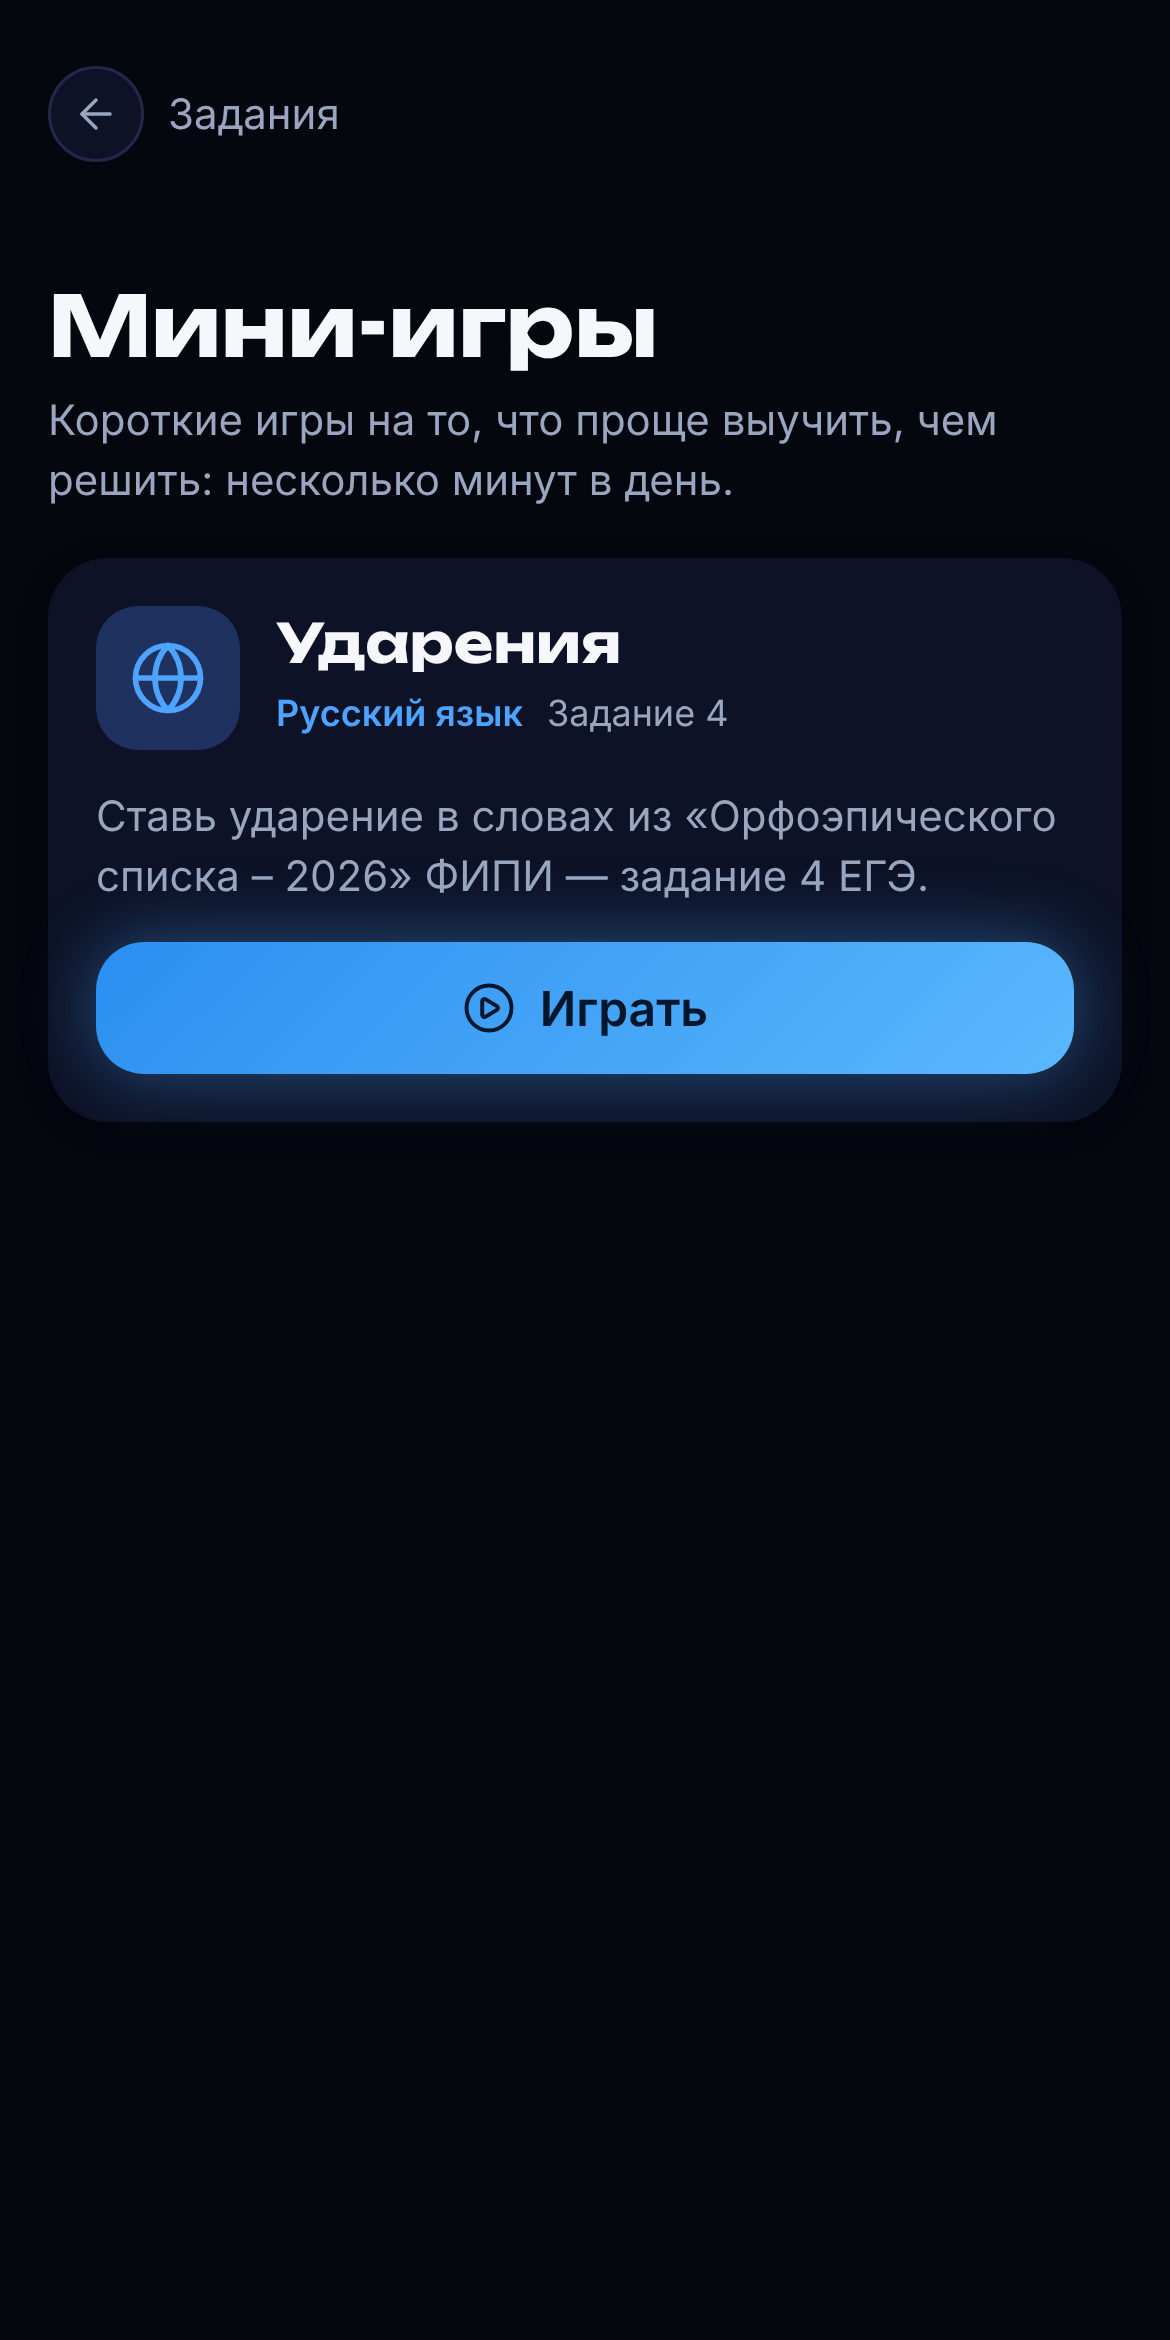
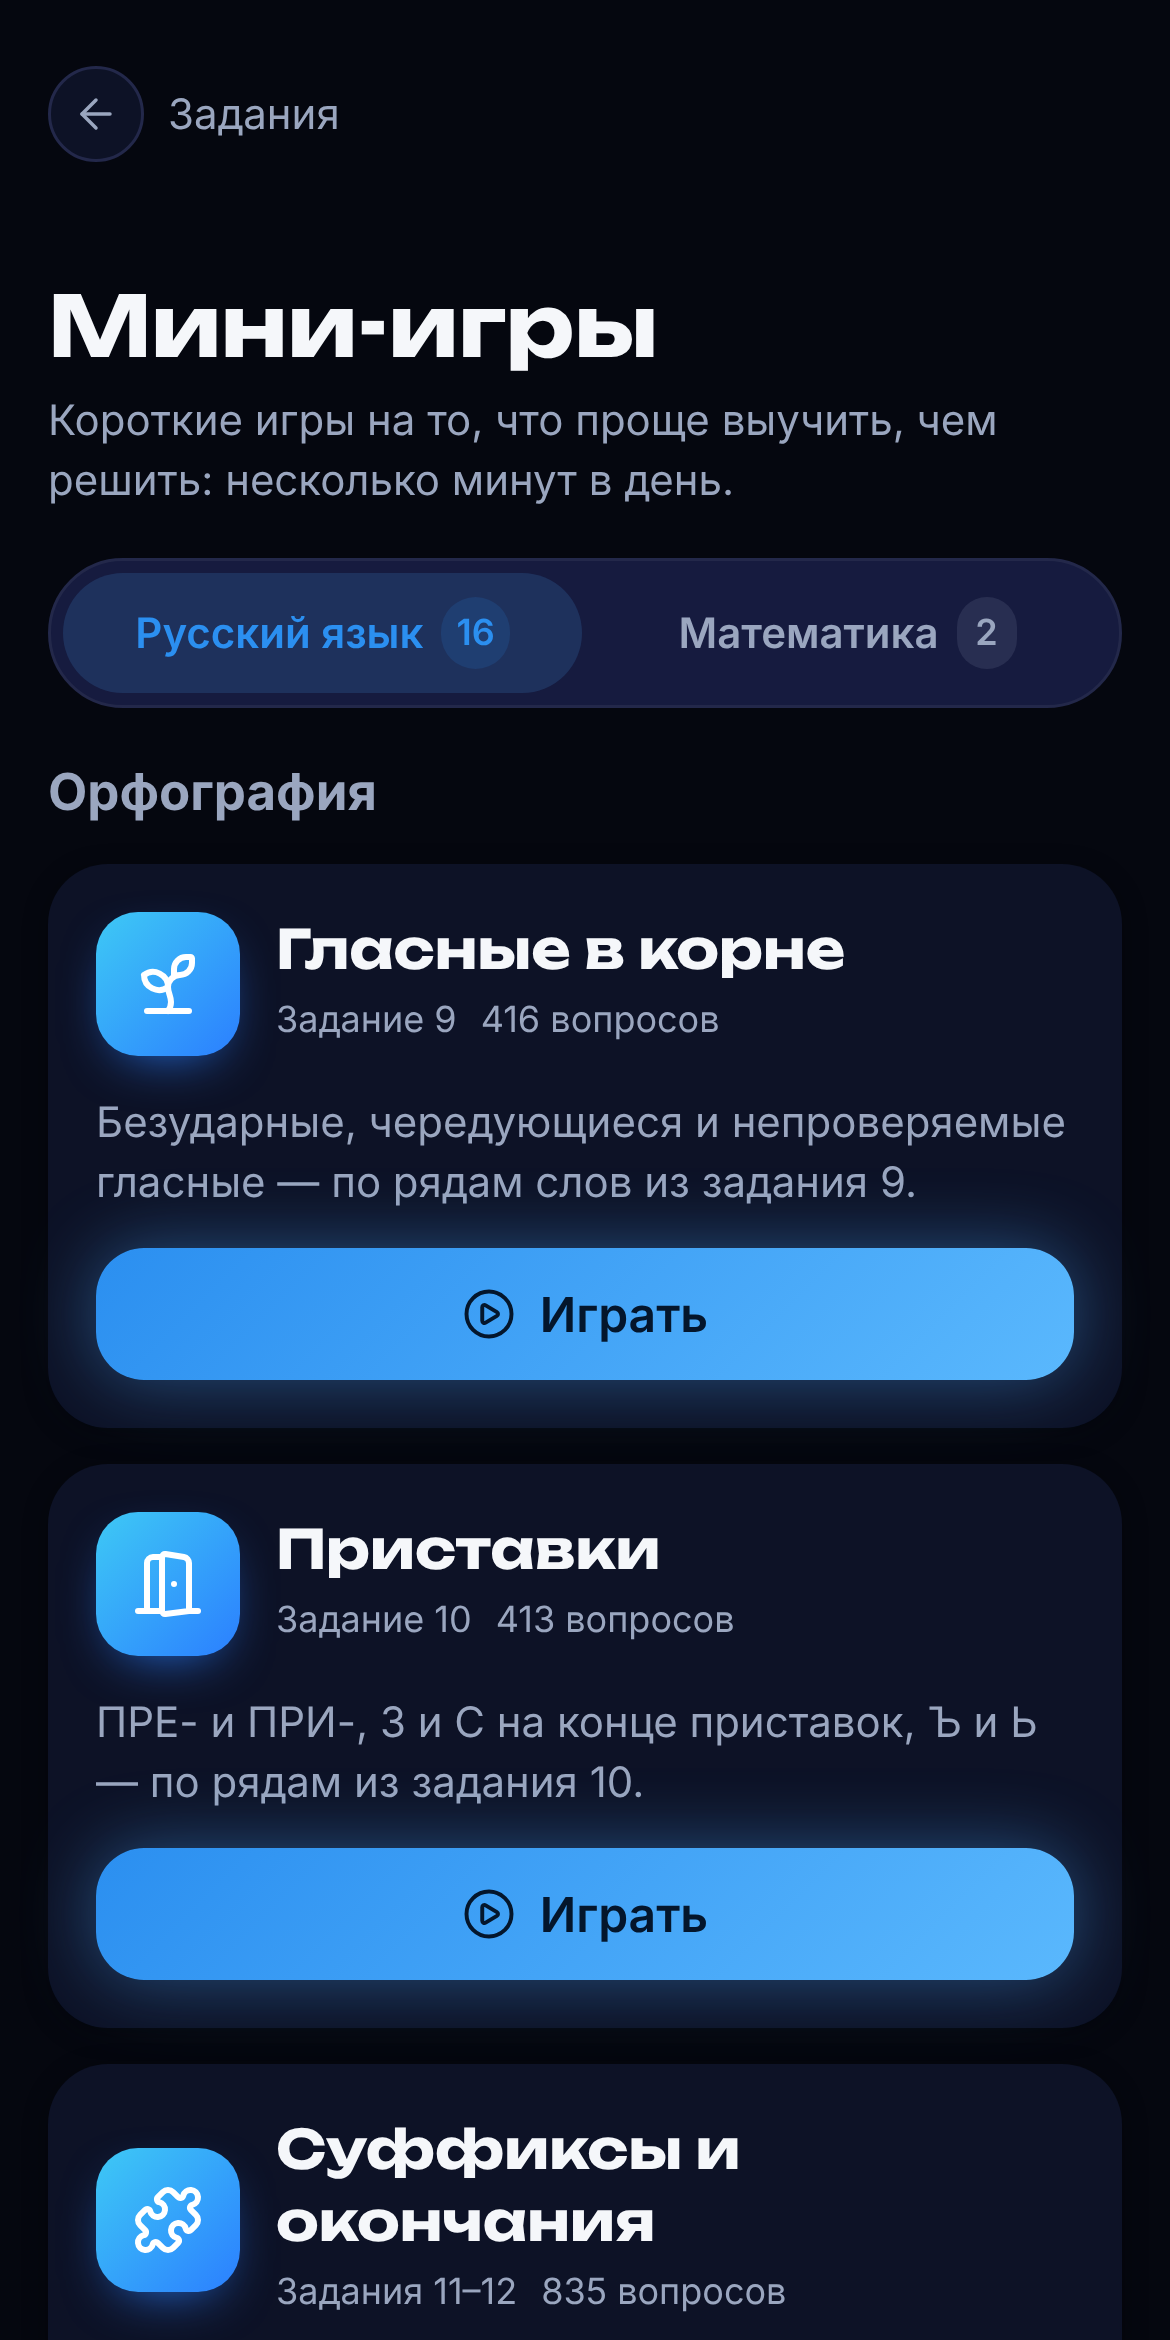
feat(content): mini-games screens (18 games) and app segment with a real feature in every video
Claude-Session: https://claude.ai/code/session_01D7d11vykKreb6D75gyVaUq

diff --git a/zybrilka-content/library/screens/SCREENS.md b/zybrilka-content/library/screens/SCREENS.md
@@ -8,7 +8,7 @@
 | home.png | Главная: «Готов к новой тренировке?», кнопка «Начать тренировку», плитки Место/Решено/Правильно, «Учебный центр» | весь верх: [40,200,1130,1000] |
 | home_scrolled.png | Главная ниже: «Популярные предметы» — Математика 678, Русский 2 386, Английский 0… | Математика+Русский: [40,840,1130,1340] |
 | training.png | «Тренировка»: выбор предмета, режимы По теме / Мои ошибки 🔒 / Умная тренировка 🔒 / Вариант, Мини-игры | сетка режимов: [40,700,1130,1600] |
-| games.png | «Мини-игры»: карточка «Ударения» (русский, задание 4, орфоэпический список 2026 ФИПИ), кнопка «Играть» | карточка: [40,540,1130,1130] |
+| games.png | «Мини-игры» (снято 18.11): вкладки «Русский язык 16 / Математика 2», карточки «Гласные в корне», «Приставки»… с кнопкой «Играть» | вкладки+первая карточка: [40,560,1130,1400] |
 | learning.png | «Учебный центр»: Теория / Практика / Стратегии / Полезные материалы | «Теория»: [40,690,1130,960] |
 | t1_condition.png | Задание №4 (вероятность, такси 25 машин, 11 чёрных) — условие | условие: [60,1240,1110,1910] (в phone crop 420) |
 | t2_typed.png | Тот же экран: введён ответ «0,5», кнопка «Проверить ответ» | поле+кнопка: [60,1150,1110,1760] |
@@ -33,3 +33,23 @@
 | home_pc.png | На ПК главная открывается на «Учебный центр»: боковое меню, карточки Теория/Практика/Стратегии/Материалы, выбор предмета, персональный план |
 | learning_pc.png | То же, что home_pc (Учебный центр) |
 | training_pc.png | «Тренировка» на ПК: режимы, мини-игры, сборник, темы, кнопка «Начать тренировку» |
+
+
+## Мини-игры (снято 18.11.2026) — 18 игр, вопросы из настоящих заданий ЕГЭ
+Механика: раунд 5–20 вопросов, **10 очков за верный, +20 за раунд без ошибок**, после ответа — «Верно!/Неверно» и **разбор из задания**; без входа играть можно, прогресс и «Мои ошибки» — после входа.
+
+**Русский язык (16):** Гласные в корне (зад. 9, 416 вопр.) · Приставки (10, 413) · Суффиксы и окончания (11–12, 835) · НЕ и НИ (13, 400) · Слитно/раздельно/дефис (14, 402) · Н и НН (15, 429) · Одна запятая (16, 420) · Расстановка знаков (17–20, 338) · Ударения (4, орфоэпический список 2026) · Грамматические нормы (8, 703) · Паронимы (5, 68) · Ошибка в слове (7, 74) · Пропущенное слово (1, 89) · Значение слова в тексте (2, 315) · Средства выразительности (22, 252) · Фразеологизмы и антонимы (25, 80).
+**Математика (2):** Теория вероятностей (зад. 4, 27) · Вычисления (зад. 7, 35).
+Адреса: /games/root-vowels, prefixes, suffixes-endings, ne-together, hyphen, nn, one-comma, commas, stress, grammar-detective, paronyms, word-errors, gap-word, word-meaning, expressive, find-in-text, probability-blitz, expressions-blitz.
+
+| Файл | Что на экране | Бокс для `callout`/`shot` |
+|---|---|---|
+| games_tall.png | весь список игр (для прокрутки `scroll: auto`) | — |
+| games_math.png | вкладка «Математика»: Теория вероятностей, Вычисления | карточки: [40,820,1130,2000] |
+| g_nn_q.png | Н и НН: вопрос с пропусками, кнопки Н / НН | [40,620,1130,1560] |
+| g_nn_a.png | Н и НН: «Верно! +10 очк.», «Разбор из задания», «Дальше» | [40,620,1130,1840] |
+| g_vowels_q.png | Гласные в корне: ряд слов, Да / Нет | [40,700,1130,1320] |
+| g_vowels_a.png | Гласные в корне: «Неверно. Правильно: Нет» + разбор | [40,700,1130,1840] |
+| g_stress_start.png | Ударения: выбор 10/20/30/40 слов, «Начать», «Мои ошибки», «Сложные слова» | [40,250,1130,1450] |
+| g_stress_q.png | Ударения: «Нажми на ударную гласную» — с о з ы в | [40,380,1130,1030] |
+| g_stress_a.png | Ударения: подсветка верной/неверной гласной, «Правильно: созЫв» | [40,380,1130,1200] |

diff --git a/zybrilka-content/pipeline/CREATIVE_RULES.md b/zybrilka-content/pipeline/CREATIVE_RULES.md
@@ -67,6 +67,16 @@
 5. **Переходы:** минимум 2 разных. Варианты: flash, zoom, wipe, glitch, slide, none.
 6. Не повторяй структуру прошлого ролика: хук, порядок сцен, тип CTA.
 
+## Про приложение — в каждом ролике
+- В конце ролика (последние 4–7 с, перед CTA или вместе с ним) зубр **конкретно рассказывает про Зубрилку**: одна функция, связанная с темой ролика, и реальный экран сайта. Без общих слов вроде «у нас крутой сайт».
+- Тема → функция:
+  - задание по русскому → мини-игра этого номера (Н/НН, ударения, приставки…), экраны `g_*`;
+  - математика → тема в «Тренировке», мини-игры «Вероятность» и «Вычисления», разбор после ответа;
+  - стратегия и теория → «Учебный центр»;
+  - ошибки → «Мои ошибки» (после входа).
+- Факты о функциях берутся только из `library/screens/SCREENS.md`: число игр и вопросов, механика очков, разбор. Новые экраны можно снять `tools/capture.cjs`.
+- Пример: «Н и НН проще выучить, чем зубрить. В Зубрилке есть мини-игра: 429 настоящих заданий, разбор после каждого. Пиши в Зубрилка бот».
+
 ## CTA
 Только Telegram-бот **@Zybrilka_bot**: голосом «Пиши в телеграм-бот Зубри́лка» (именно «Зубрилка бот», не «бот Зубрилки») и бейдж `@Zybrilka_bot`. Сайт в CTA не называем.
 

diff --git a/.claude/agents/zyb-scriptwriter.md b/.claude/agents/zyb-scriptwriter.md
@@ -41,6 +41,7 @@ tools: Read, Write, Edit, Bash, Glob, Grep
    - `duration_range`: `[12, 25]`.
    - **Стиль по умолчанию:** `"subtitles": {"style": "headline", "y": 300, "size": 96}`. Фоны `rays` с цветом по смыслу. Зубр — `hero` или позы. Сцена 1,5–3 с, и в каждой меняются поза или эмоция и цвет фона. Скриншоты сайта — `shot`-карточками выше лица зубра или сбоку.
    - **Разнообразие по CREATIVE_RULES.** Минимум 3 плана или позы зубра (позы владельца из `character/poses/library/` — в приоритете), фирменные фоны (без фото), 3 вида `anim`, 2 вида `transition`. Поле `look` — только `flip`.
+   - **Про приложение в каждом ролике** (CREATIVE_RULES → «Про приложение»): последние 4–7 с — конкретная функция Зубрилки по теме ролика (часто мини-игра этого номера) с реальным экраном `shot`/телефоном.
    - **Сайт в кадре почти всегда.** Основа — мобильная версия: телефон, плавная прокрутка `*_tall` с `"scroll": "auto"`. ПК-версия иногда, в `laptop` (`*_pc`). Экраны бери из `zybrilka-content/library/screens/SCREENS.md`.
    - **Мем** — только формат из MEME_FORMATS, собранный нашими средствами.
 7. Проверь: `python3 zybrilka-content/tools/render.py <video_dir> --check` должен вывести `storyboard ok`. Исправляй, пока не пройдёт.

diff --git a/.claude/agents/zyb-qa.md b/.claude/agents/zyb-qa.md
@@ -30,7 +30,8 @@ tools: Read, Bash, Glob, Grep, WebSearch
    - планы и позы зубра не копируют прошлый ролик;
    - сайт есть в кадре, если по смыслу уместен (мобилка — основа);
    - есть не меньше 3 планов, 2 фонов, 3 анимаций и 2 переходов;
-   - тема не из списка банальных.
+   - тема не из списка банальных;
+   - в конце есть конкретный рассказ о функции Зубрилки по теме с реальным экраном, и факты о функции совпадают с SCREENS.md.
 
    Если что-то не выполнено — REJECT.
 6. **Чистота материала.** В кадре нет фото из интернета, чужих мем-картинок, лиц и логотипов. Нет сгенерированных кодом нарядов и аксессуаров (`look` — только `flip`). Сайт показан реальными экранами. Если что-то из этого нарушено — REJECT.
